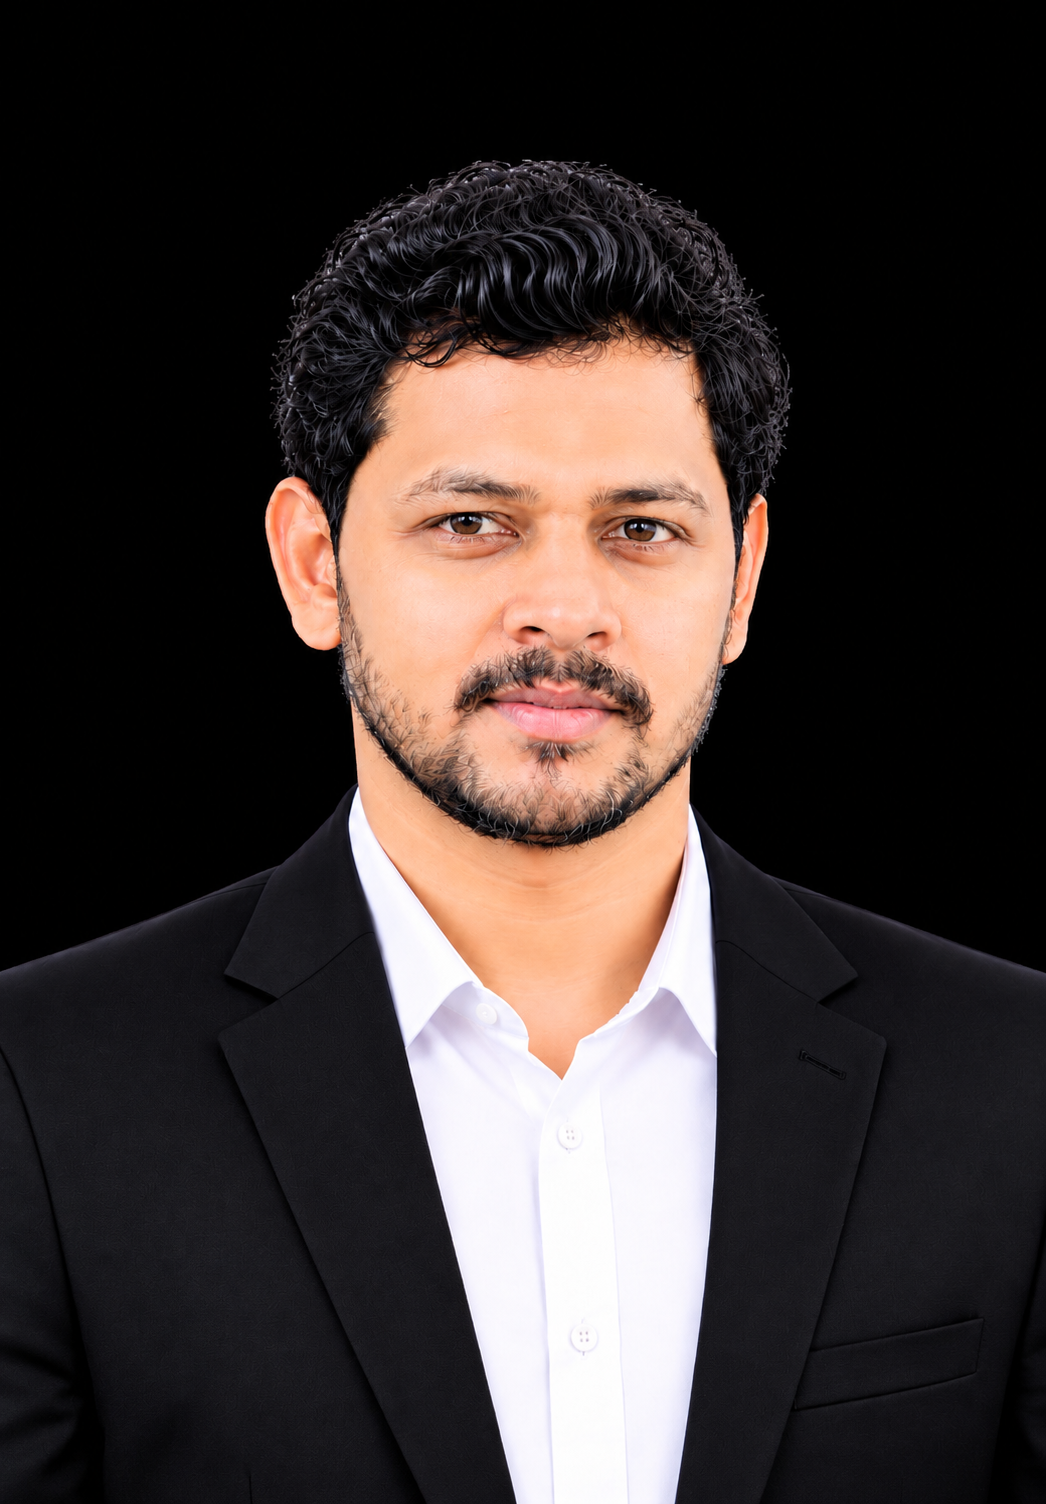
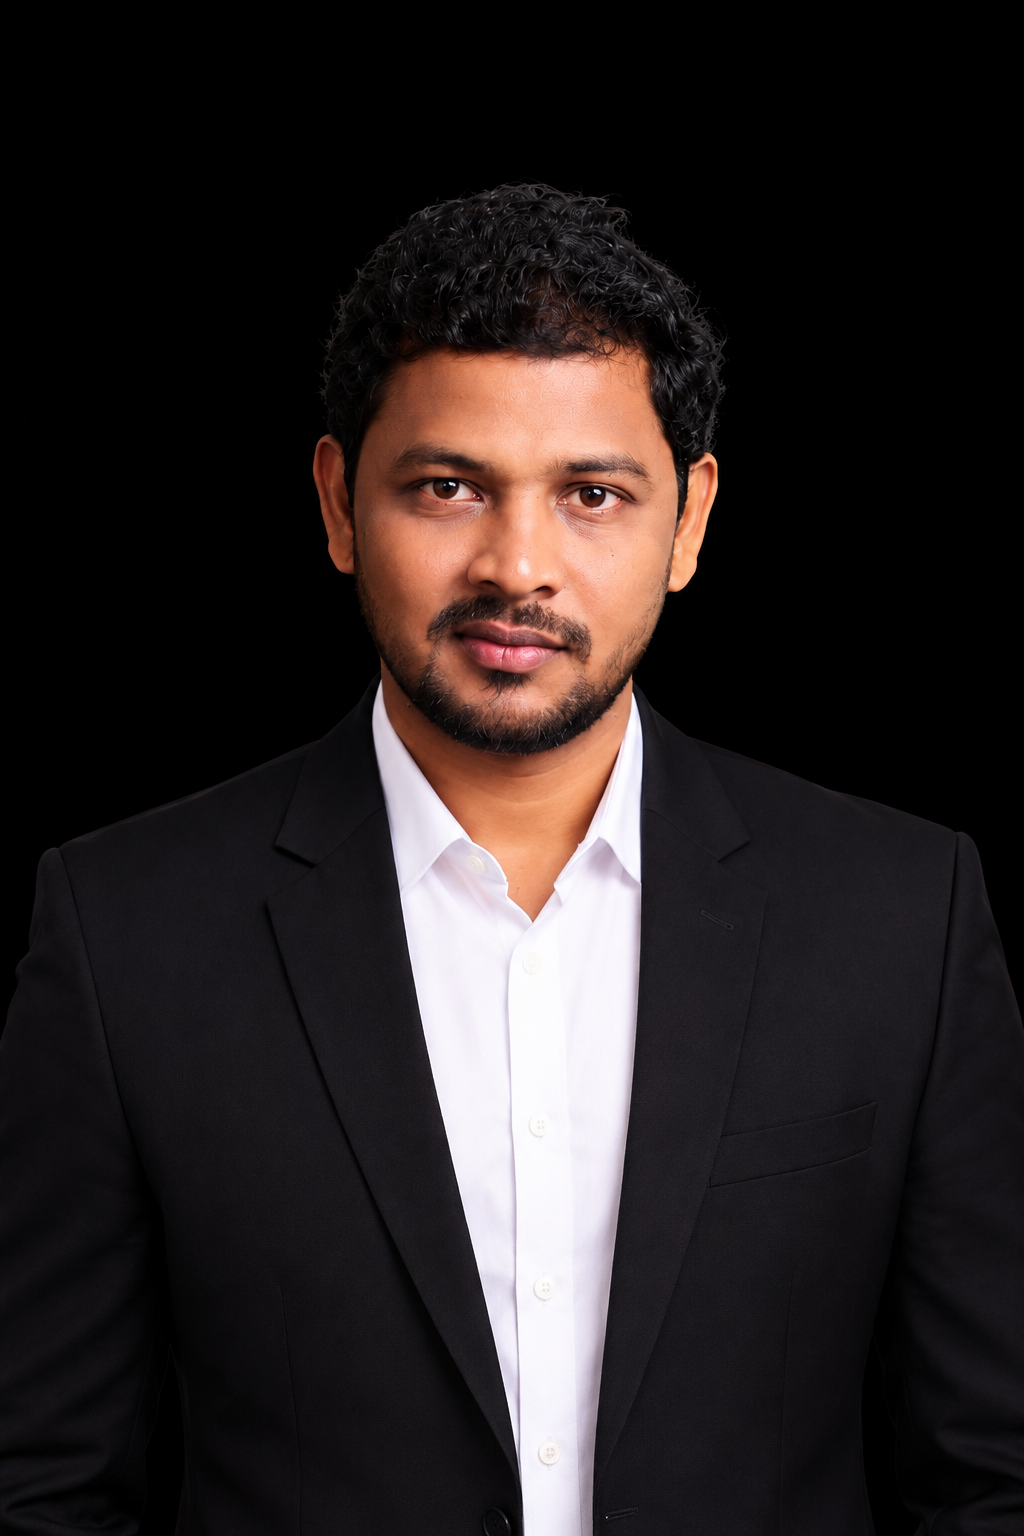
Update team profiles, images, and contact form inquiry content

diff --git a/index.html b/index.html
@@ -71,6 +71,7 @@
           "@type": "PostalAddress",
           "streetAddress": "Door No. 70-1-4/4, 2nd floor, Polisetty Enclave",
           "addressLocality": "Sarpavaram",
+          "addressCity": "Kakinada",
           "addressRegion": "Andhra Pradesh",
           "postalCode": "533005",
           "addressCountry": "IN"
@@ -251,7 +252,7 @@
           <ul class="hero-trust">
             <li><b>20+</b> projects delivered</li>
             <li><b>10+</b> clients served</li>
-            <li><b>2+</b> years in business</li>
+            <li><b>3+</b> years in business</li>
             <li><b>1 day</b> average reply time</li>
           </ul>
         </div>
@@ -1017,7 +1018,7 @@
                 <div class="avatar">
                   <span aria-hidden="true">PR</span
                   ><img
-                    src="assets/images/team/Prasanth.png"
+                    src="assets/images/team/prasanth.png"
                     alt="Photo of Prasanth Raj"
                     width="400"
                     height="400"
@@ -1471,7 +1472,7 @@
                   <i class="fas fa-location-dot"></i>
                   <div>
                     <b>Office</b>Door No. 70-1-4/4, 2nd floor, Polisetty
-                    Enclave, Sarpavaram, Andhra Pradesh 533005
+                    Enclave, Sarpavaram, Kakinada, Andhra Pradesh 533005
                   </div>
                 </li>
                 <li>
@@ -1619,8 +1620,8 @@
               <h3 class="footer-brand">Digital Solutions Team</h3>
             </div>
             <p>
-              Web, mobile, AI and cloud solutions for growing businesses. Based
-              in Sarpavaram, Andhra Pradesh, working worldwide.
+              Web, mobile, AI and cloud solutions for growing businesses. Based in Sarpavaram, Kakinada, Andhra Pradesh, 
+              Working worldwide.
             </p>
             <div class="d-flex gap-3 fs-4 mt-3">
               <a class="footer-social" href="#" aria-label="LinkedIn"
@@ -1689,7 +1690,7 @@
               </p>
               <p>
                 <i class="fas fa-location-dot"></i> Door No. 70-1-4/4, 2nd
-                floor, Polisetty Enclave, Sarpavaram, Andhra Pradesh 533005
+                floor, Polisetty Enclave, Sarpavaram, Kakinada, Andhra Pradesh 533005
               </p>
               <p>
                 <i class="fas fa-clock"></i> Mon to Sat, 9:30 AM to 6:30 PM IST

diff --git a/script.js b/script.js
@@ -108,7 +108,7 @@ document.addEventListener('DOMContentLoaded', () => {
   estimate();
   $('#estSend').addEventListener('click', () => {
     const label = s => $(s).selectedOptions[0].text;
-    $('#message').value = `Estimate request: ${label('#estType')}, ${label('#estSize')}, ${label('#estDesign')}. Range shown: ${$('#estResult').value}.\n\nMore details: `;
+    $('#message').value = `Estimate request: ${label('#estType')}, ${label('#estSize')}, ${label('#estDesign')}. Range shown: ${$('#estResult').value}.\n\nI'd like to discuss my requirements further. Please get in touch with me. `;
     setTimeout(() => $('#message').focus({ preventScroll: true }), 600);
   });
 
